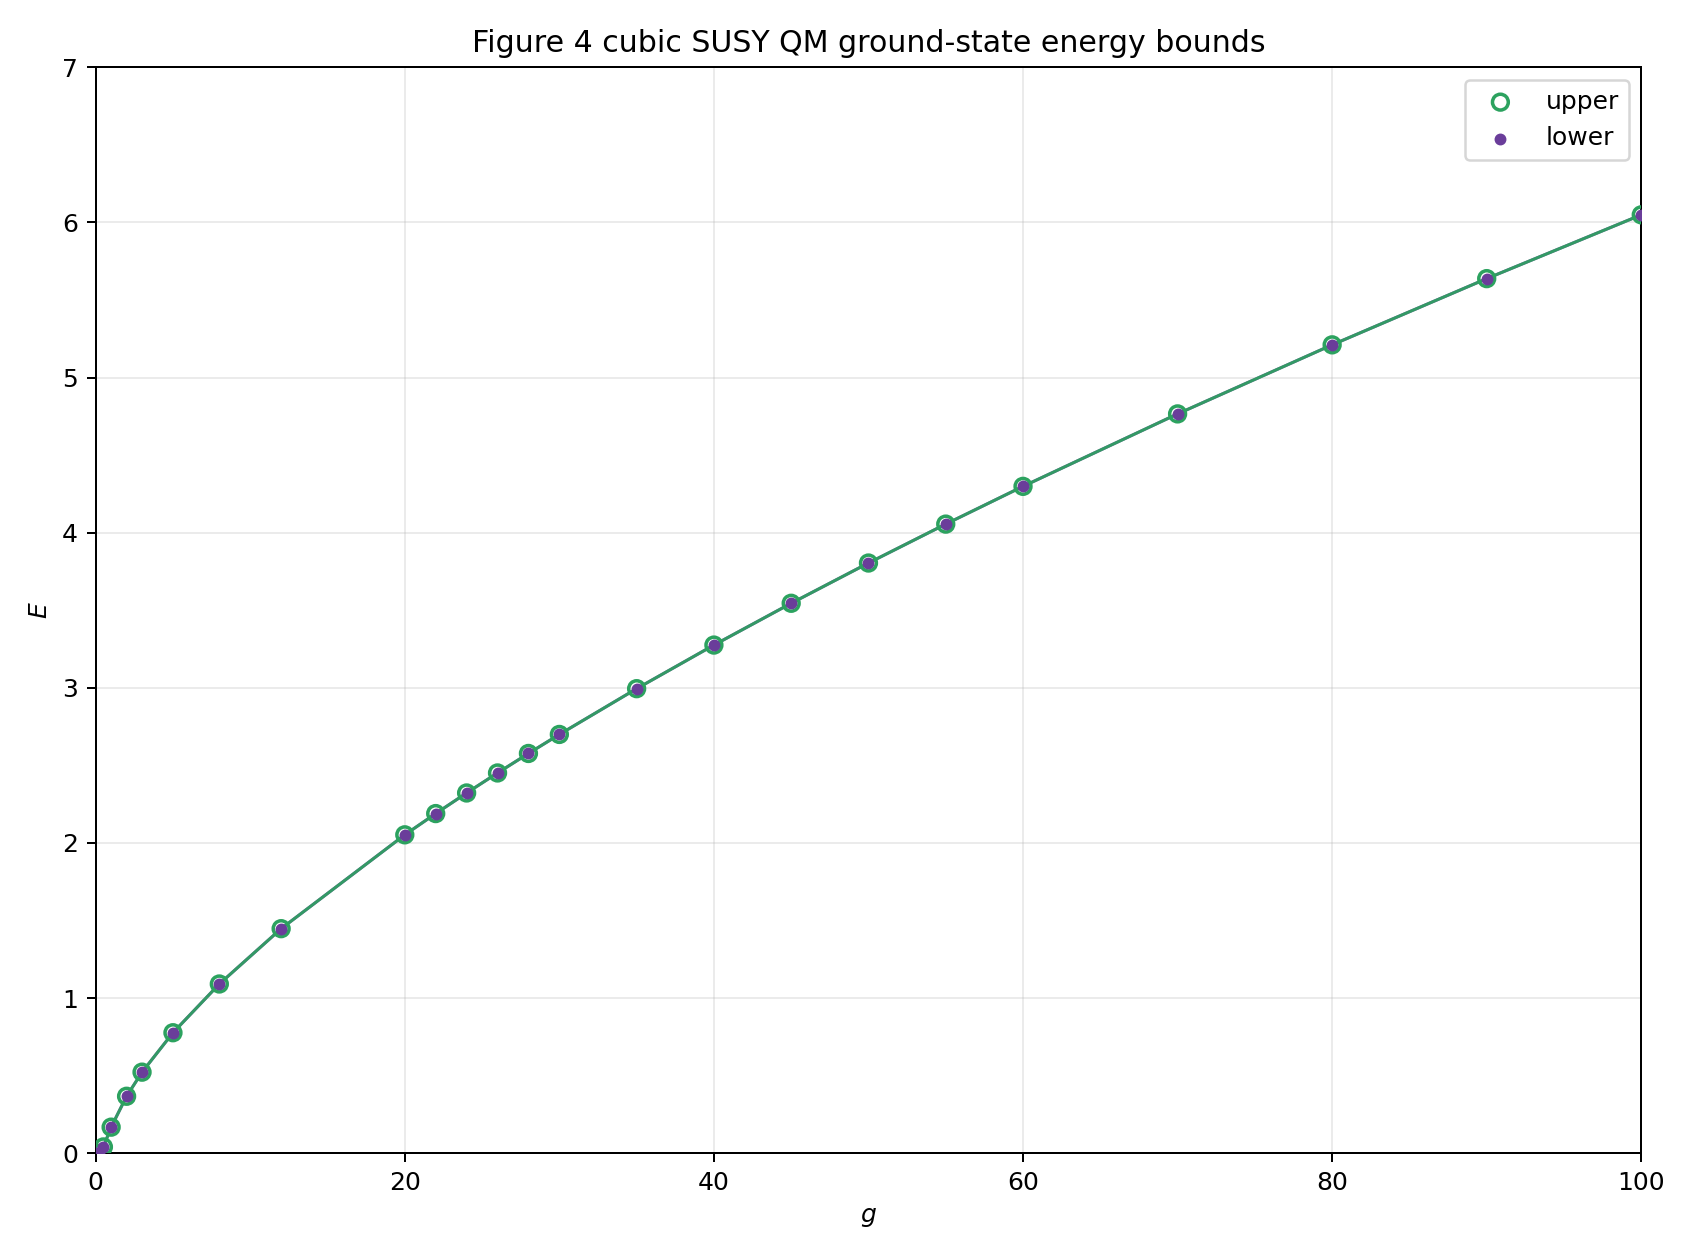
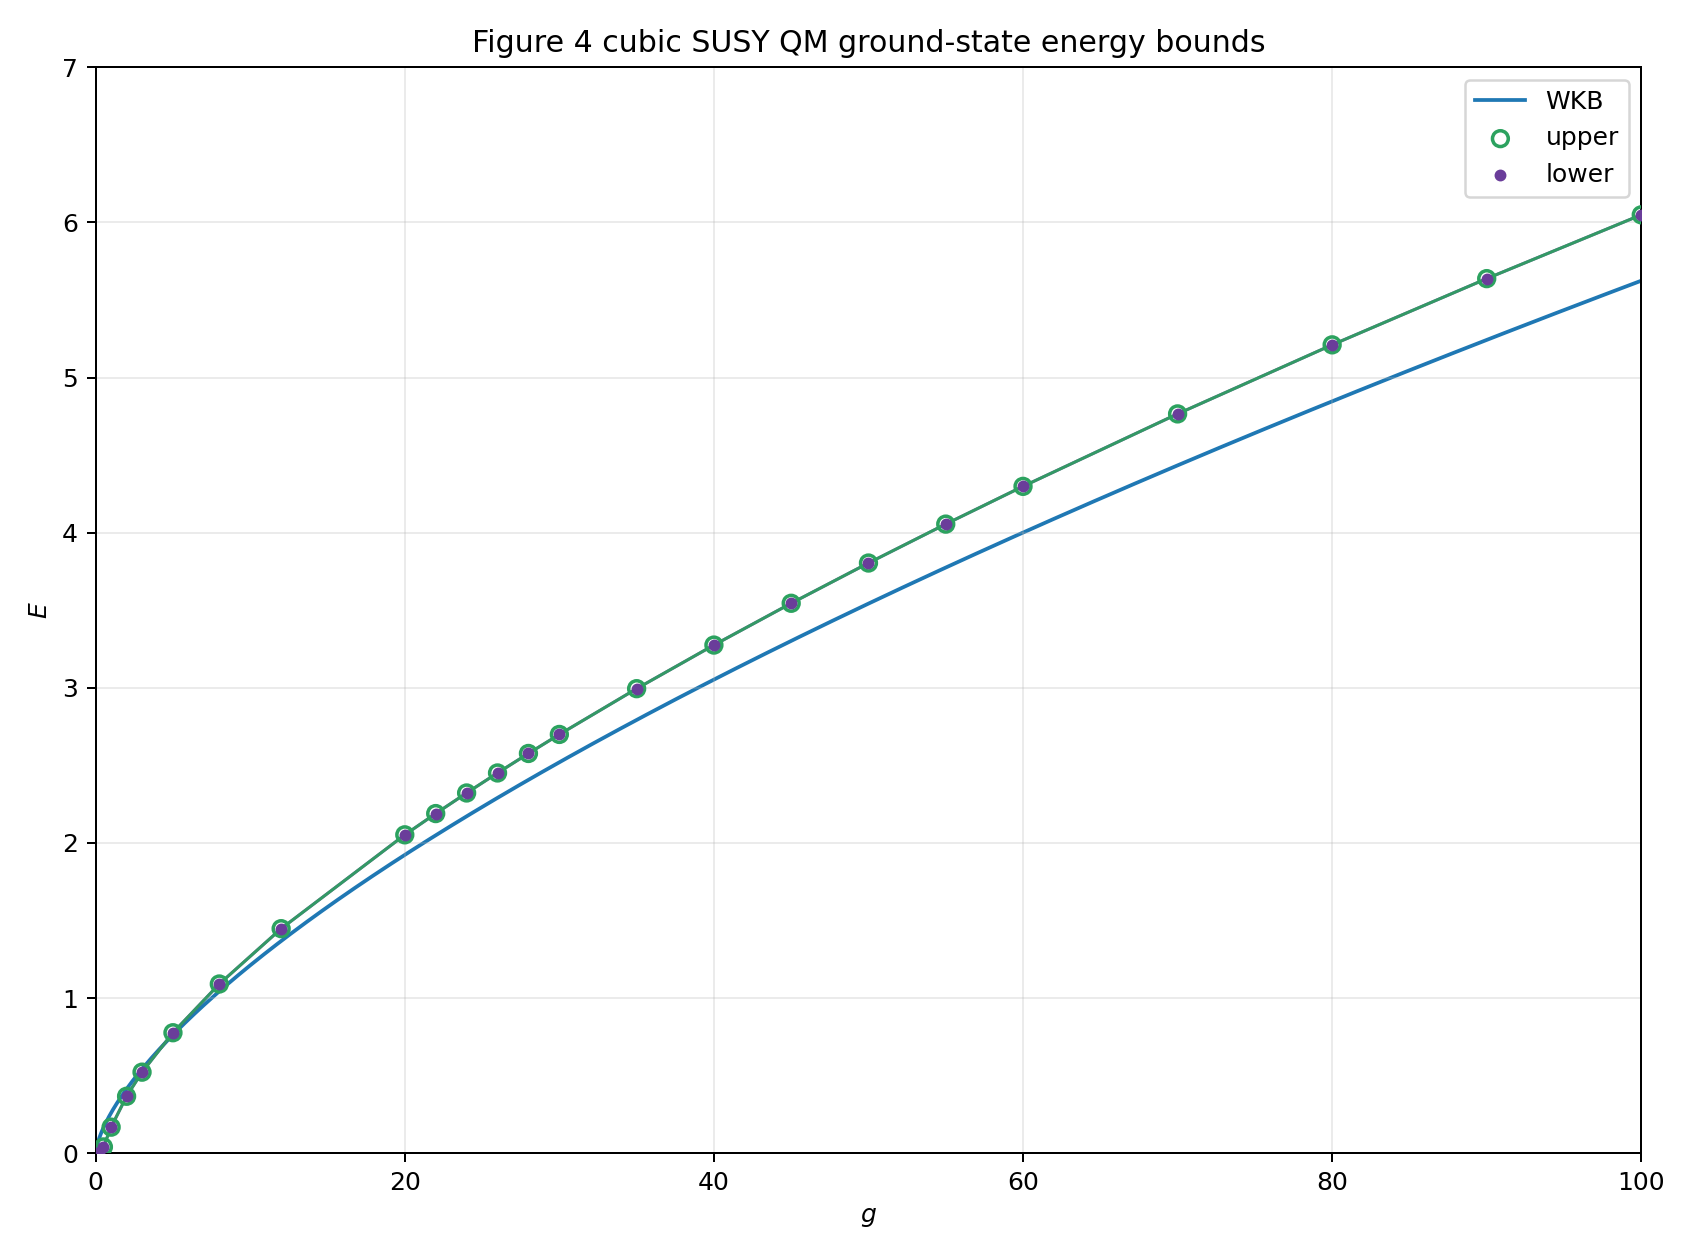
Add Figure 4 WKB reference curve

diff --git a/src/susy_mp_bootstrap/figure4_cubic.py b/src/susy_mp_bootstrap/figure4_cubic.py
@@ -12,6 +12,7 @@ import numpy as np
 
 FreeExpr = dict[int, complex]
 WordExpr = dict[tuple[str, ...], complex]
+FIGURE4_WKB_COEFFICIENT = 0.2610377147951411327
 
 
 def _import_cvxpy():
@@ -570,6 +571,12 @@ def _energy_hat_from_physical(g: float, energy: float) -> float:
 
 def _energy_physical_from_hat(g: float, energy_hat: float) -> float:
     return (1.0 / (32.0 * g * g)) + (g ** (2.0 / 3.0)) * energy_hat
+
+
+def figure4_wkb_curve(g_values: np.ndarray) -> np.ndarray:
+    values = np.asarray(g_values, dtype=float)
+    clipped = np.clip(values, 0.0, None)
+    return FIGURE4_WKB_COEFFICIENT * np.power(clipped, 2.0 / 3.0)
 
 
 def _status_tag(result: Figure4FeasibilityResult) -> str:
@@ -1173,6 +1180,8 @@ def plot_figure4(
 ) -> None:
     plt = _import_matplotlib()
     figure, axis = plt.subplots(figsize=(9.4, 7.0))
+    dense_g = np.linspace(float(np.min(g_values)), float(np.max(g_values)), 800)
+    axis.plot(dense_g, figure4_wkb_curve(dense_g), color="#1f78b4", linewidth=1.5, label="WKB", zorder=0)
     lower_mask = np.isfinite(lower)
     upper_mask = np.isfinite(upper)
     if np.any(upper_mask):

diff --git a/src/susy_mp_bootstrap/__init__.py b/src/susy_mp_bootstrap/__init__.py
@@ -52,6 +52,7 @@ from .figure3_convex import (
     solve_figure3_point,
 )
 from .figure4_cubic import (
+    FIGURE4_WKB_COEFFICIENT,
     Figure4Config,
     Figure4FeasibilityResult,
     Figure4Reducer,
@@ -60,6 +61,7 @@ from .figure4_cubic import (
     figure4_operator_basis,
     figure4_string_ground_basis,
     figure4_string_operator_basis,
+    figure4_wkb_curve,
     plot_figure4,
     plot_figure4_gap,
     plot_figure4_zoom,
@@ -104,6 +106,7 @@ __all__ = [
     "Figure4Config",
     "Figure4FeasibilityResult",
     "Figure4Reducer",
+    "FIGURE4_WKB_COEFFICIENT",
     "PolynomialSuperpotential",
     "TracedWord",
     "build_fixed_energy_problem",
@@ -124,6 +127,7 @@ __all__ = [
     "figure4_operator_basis",
     "figure4_string_ground_basis",
     "figure4_string_operator_basis",
+    "figure4_wkb_curve",
     "plot_figure1_line_scan",
     "plot_figure1_regions",
     "plot_figure2_eu_regions",

diff --git a/tests/test_figure4_cubic.py b/tests/test_figure4_cubic.py
@@ -1,13 +1,16 @@
 from __future__ import annotations
 
 import pytest
+import numpy as np
 
 from susy_mp_bootstrap.figure4_cubic import (
     BASIS_B5,
     BASIS_C4,
+    FIGURE4_WKB_COEFFICIENT,
     Figure4Reducer,
     figure4_ground_basis,
     figure4_operator_basis,
+    figure4_wkb_curve,
 )
 
 
@@ -63,3 +66,11 @@ def test_operator_basis_levels_do_not_exceed_five() -> None:
 
     assert max(level(word) for word in figure4_operator_basis()) == 5
     assert max(level(word) for word in figure4_ground_basis()) == 4
+
+
+def test_wkb_curve_matches_large_g_formula() -> None:
+    g_values = np.array([0.0, 1.0, 8.0], dtype=float)
+    energies = figure4_wkb_curve(g_values)
+    assert energies == pytest.approx(
+        np.array([0.0, FIGURE4_WKB_COEFFICIENT, 4.0 * FIGURE4_WKB_COEFFICIENT], dtype=float)
+    )

diff --git a/notes_pro/Figure4- WKB.md b/notes_pro/Figure4- WKB.md
@@ -1,0 +1,156 @@
+# Figure 4 WKB
+
+## Model and leading Hamiltonian
+
+For Figure 4,
+
+\[
+W(x)=\frac12 x^2+g\frac13 x^3,\qquad g\ge 0.
+\]
+
+Fix the \(\epsilon=-1\) sector:
+
+\[
+H=\frac12p^2+\frac12g^2x^4+gx^3+\frac12x^2-gx-\frac12.
+\]
+
+Apply the exact shift
+
+\[
+x=y-\frac1{2g},
+\]
+
+then
+
+\[
+H=\frac12p^2+\frac12g^2y^4-gy-\frac14y^2+\frac1{32g^2}.
+\]
+
+Apply the scaling
+
+\[
+y=g^{-1/3}z,\qquad p=g^{1/3}q,\qquad [z,q]=i,
+\]
+
+and obtain
+
+\[
+H=\frac1{32g^2}+g^{2/3}\left[\frac12q^2+\frac12z^4-z-\frac14g^{-4/3}z^2\right].
+\]
+
+Therefore the strict large-\(g\) leading piece is
+
+\[
+h_0=\frac12q^2+\frac12z^4-z,
+\]
+
+or equivalently
+
+\[
+H_{\text{lead}}=g^{2/3}h_0=\frac12 g^{2/3}(q^2+z^4-2z).
+\]
+
+## WKB quantization
+
+The leading potential is
+
+\[
+U(z)=\frac12 z^4-z.
+\]
+
+The classical momentum is
+
+\[
+q(z;\varepsilon)=\sqrt{2(\varepsilon-U(z))}=\sqrt{2\varepsilon-z^4+2z}.
+\]
+
+The turning points \(z_\pm(\varepsilon)\) are defined by
+
+\[
+U(z_\pm)=\varepsilon
+\quad\Longleftrightarrow\quad
+z_\pm^4-2z_\pm-2\varepsilon=0.
+\]
+
+Bohr-Sommerfeld quantization gives
+
+\[
+\oint q\,dz=2\pi\left(n+\frac12\right).
+\]
+
+For the ground state \(n=0\),
+
+\[
+\int_{z_-}^{z_+}\sqrt{2\varepsilon-z^4+2z}\,dz=\frac{\pi}{2}.
+\]
+
+This is the scalar equation defining the WKB coefficient.
+
+## Numerical coefficient
+
+Solving
+
+\[
+\int_{z_-}^{z_+}\sqrt{2\varepsilon-z^4+2z}\,dz=\frac{\pi}{2}
+\]
+
+gives
+
+\[
+\varepsilon_0^{\text{WKB}}=0.2610377147951411327.
+\]
+
+The corresponding turning points are
+
+\[
+z_-=-0.2587949027639901378,\qquad
+z_+=1.3370889447325992462.
+\]
+
+So
+
+\[
+\kappa_{\text{WKB}}=0.2610377147951411327.
+\]
+
+## Figure 4 blue line
+
+The WKB curve drawn in Figure 4 is
+
+\[
+E_0^{\text{WKB}}(g)=0.2610377147951411327\, g^{2/3}.
+\]
+
+Equivalently,
+
+\[
+\lim_{g\to\infty} g^{-2/3}E_0(g)=0.2610377147951411327.
+\]
+
+## Root-function form
+
+Define
+
+\[
+F(\varepsilon):=
+\int_{z_-(\varepsilon)}^{z_+(\varepsilon)}
+\sqrt{2\varepsilon-z^4+2z}\,dz-\frac{\pi}{2},
+\]
+
+where \(z_\pm(\varepsilon)\) are the two real roots of
+
+\[
+z^4-2z-2\varepsilon=0.
+\]
+
+Then
+
+\[
+F(\varepsilon_0^{\text{WKB}})=0.
+\]
+
+For plotting, use directly
+
+\[
+E_{\text{blue}}(g)=0.2610377147951411327\, g^{2/3}.
+\]

diff --git a/Bootstrapping supersymmetric (matrix) quantum mechanics/日志.md b/Bootstrapping supersymmetric (matrix) quantum mechanics/日志.md
@@ -393,3 +393,11 @@
   - typical refined margin is about `-5e-5`
   - typical PSD residual is about `3.8e-6`
 - So the near-100 local picture is now clear, but this should still be read as a high-resolution local bootstrap edge plot, not as a fully certified `1e-8` global curve.
+
+### Figure 4 WKB overlay
+
+- Saved the WKB theory handoff note as:
+  - `notes_pro/Figure4- WKB.md`
+- Added the paper-style blue line to the standard Figure 4 plotting path:
+  - `E_{\text{WKB}}(g) = 0.2610377147951411327\, g^{2/3}`
+- Updated the main full-range Figure 4 displays so the lower bound, upper bound, and WKB curve now appear on the same plot.

diff --git a/runs/figure4_highg_20_to_100_fit_guided/summary.md b/runs/figure4_highg_20_to_100_fit_guided/summary.md
@@ -9,6 +9,8 @@
 - Thresholds:
   - `psd_tolerance = 3e-06`
   - `margin_tolerance = 0.001`
+- full-frame plot now includes the WKB line
+  - `E_WKB(g) = 0.2610377147951411327 g^{2/3}`
 
 Status rows:
 - g=20.0 pred=2.052655 win=0.003000 low=2.052655 up=2.052655 ls=CLARABEL:optimal us=CLARABEL:optimal_inaccurate

diff --git a/runs/figure4_combined_sparse_low_dense_high/summary.md b/runs/figure4_combined_sparse_low_dense_high/summary.md
@@ -4,3 +4,4 @@
 - high-g source: fit-guided local refinement
 - range: `g in [0,100]`
 - note: low-g remains sparse; high-g is densified in `[20,100]`.
+- blue line added: `E_WKB(g) = 0.2610377147951411327 g^{2/3}`.
